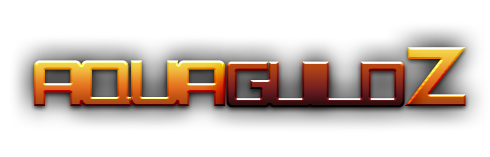
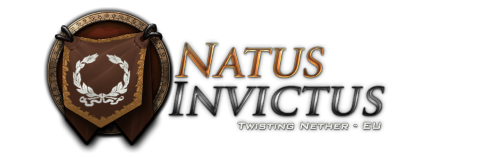
[13] Adding a Guild
Added a Guild and Changed the Functionality of the Background and the
Background itself.

diff --git a/assets/stylesheets/main.css b/assets/stylesheets/main.css
@@ -1,4 +1,26 @@
-body { background: #000 url(../images/background.png) 50% 0 no-repeat; color: #fff; text-align: center; }
+parsererror { position:absolute; }
+html { min-width: 1006px; }
+body { background: #000 url("../images/background.png") 0% 0 no-repeat; -webkit-background-size: auto; color: #efc9a0; font: normal 12px/1.5 Arial, Verdana, sans-serif; }
+
+@media (max-width: 1920px) {
+	body { background-image: url("../images/background.png") }
+}
+
+@media (max-width: 1680px) {
+	body { background-image: url("../images/background.png") }
+}
+
+@media (max-width: 1440px) {
+	body { background-image: url("../images/background.png") }
+}
+
+@media (max-width: 1280px) {
+	body { background-image: url("../images/background.png") }
+}
+
+@media (max-width: 1024px) {
+  body { background-image: url("../images/background.png") }
+}
 
 header#main_header { height: 203px; position: relative; }
 header #logo {  background: url(../images/logo.png) 0 0 no-repeat;  height: 157px;  margin: 40px 0 0 -30px;  width: 490px;}
